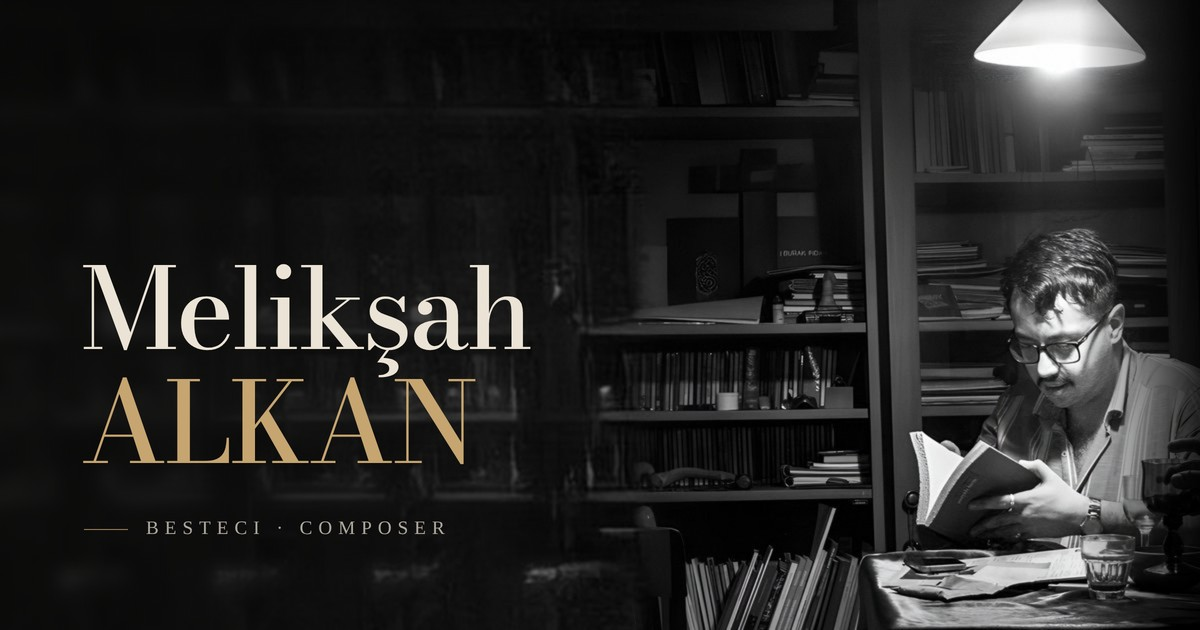
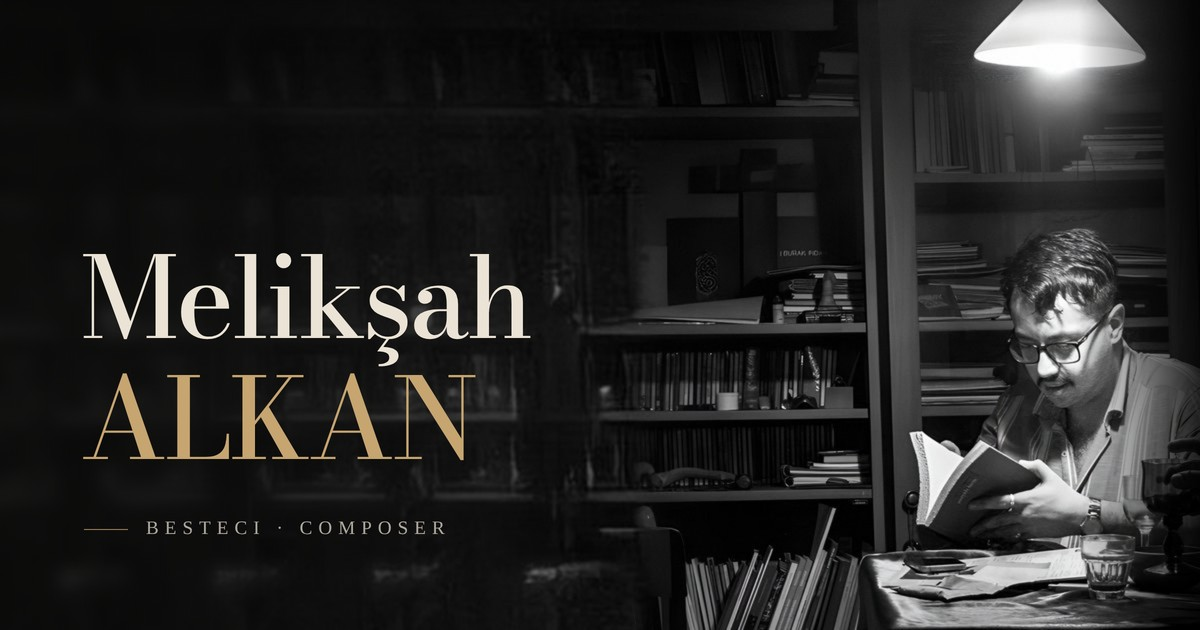
İsim satır aralığı açıldı; çapraz çizgi yalnızca geçmiş etkinliklerde
Claude-Session: https://claude.ai/code/session_016XhfqqwTcEEtporFASkWWW

diff --git a/src/styles/site.css b/src/styles/site.css
@@ -383,7 +383,7 @@ a.contact-line:hover { color: var(--accent); }
   text-align: right;
   animation: rise 1.8s .3s cubic-bezier(.2, .7, .2, 1) both;
 }
-.hero-name h1 { font: 500 calc(clamp(54px, 9vw, 132px) * var(--z, 1))/.93 var(--display); letter-spacing: -.03em; }
+.hero-name h1 { font: 500 calc(clamp(54px, 9vw, 132px) * var(--z, 1))/1.08 var(--display); letter-spacing: -.03em; }
 .hero-name h1 .sur { color: var(--accent); }
 .hero-name p { margin-top: 20px; zoom: var(--z, 1); }
 
@@ -406,9 +406,10 @@ a.contact-line:hover { color: var(--accent); }
   display: grid; justify-items: center; align-content: center; gap: 3px;
   width: 86px; height: 92px; padding: 6px 0;
   background: #0f0d0b; border: 1px solid var(--faint);
-  background-image: linear-gradient(to top right, transparent calc(50% - .5px), rgba(198, 165, 113, .32) 50%, transparent calc(50% + .5px));
   font-variant-numeric: tabular-nums;
 }
+/* çapraz çizgi: yalnızca tarihi geçmiş etkinlikler */
+.datebox--past { background-image: linear-gradient(to top right, transparent calc(50% - .75px), rgba(198, 165, 113, .7) 50%, transparent calc(50% + .75px)); }
 .db-m { font: 400 11px/1 var(--text); letter-spacing: .16em; color: var(--dim); }
 .db-d { font: 500 33px/.95 var(--display); letter-spacing: -.02em; color: var(--ink); }
 .datebox--year .db-d { font-size: 26px; padding: 4px 0 2px; }
